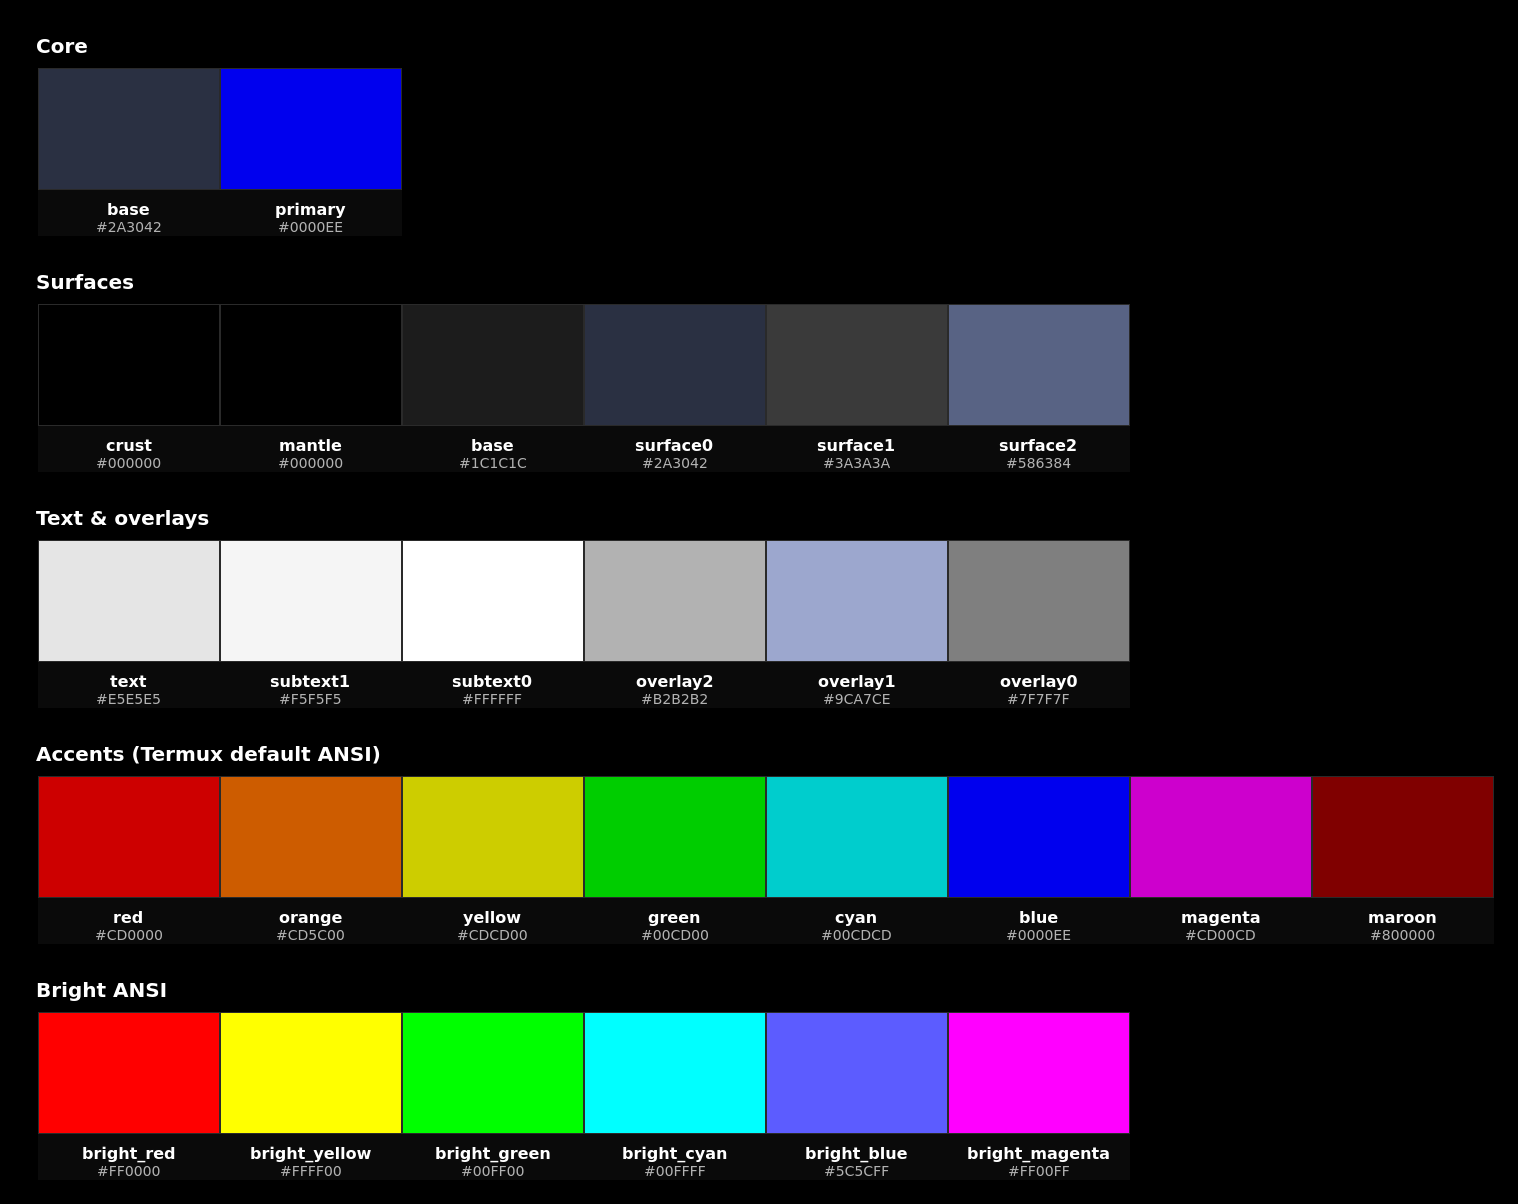
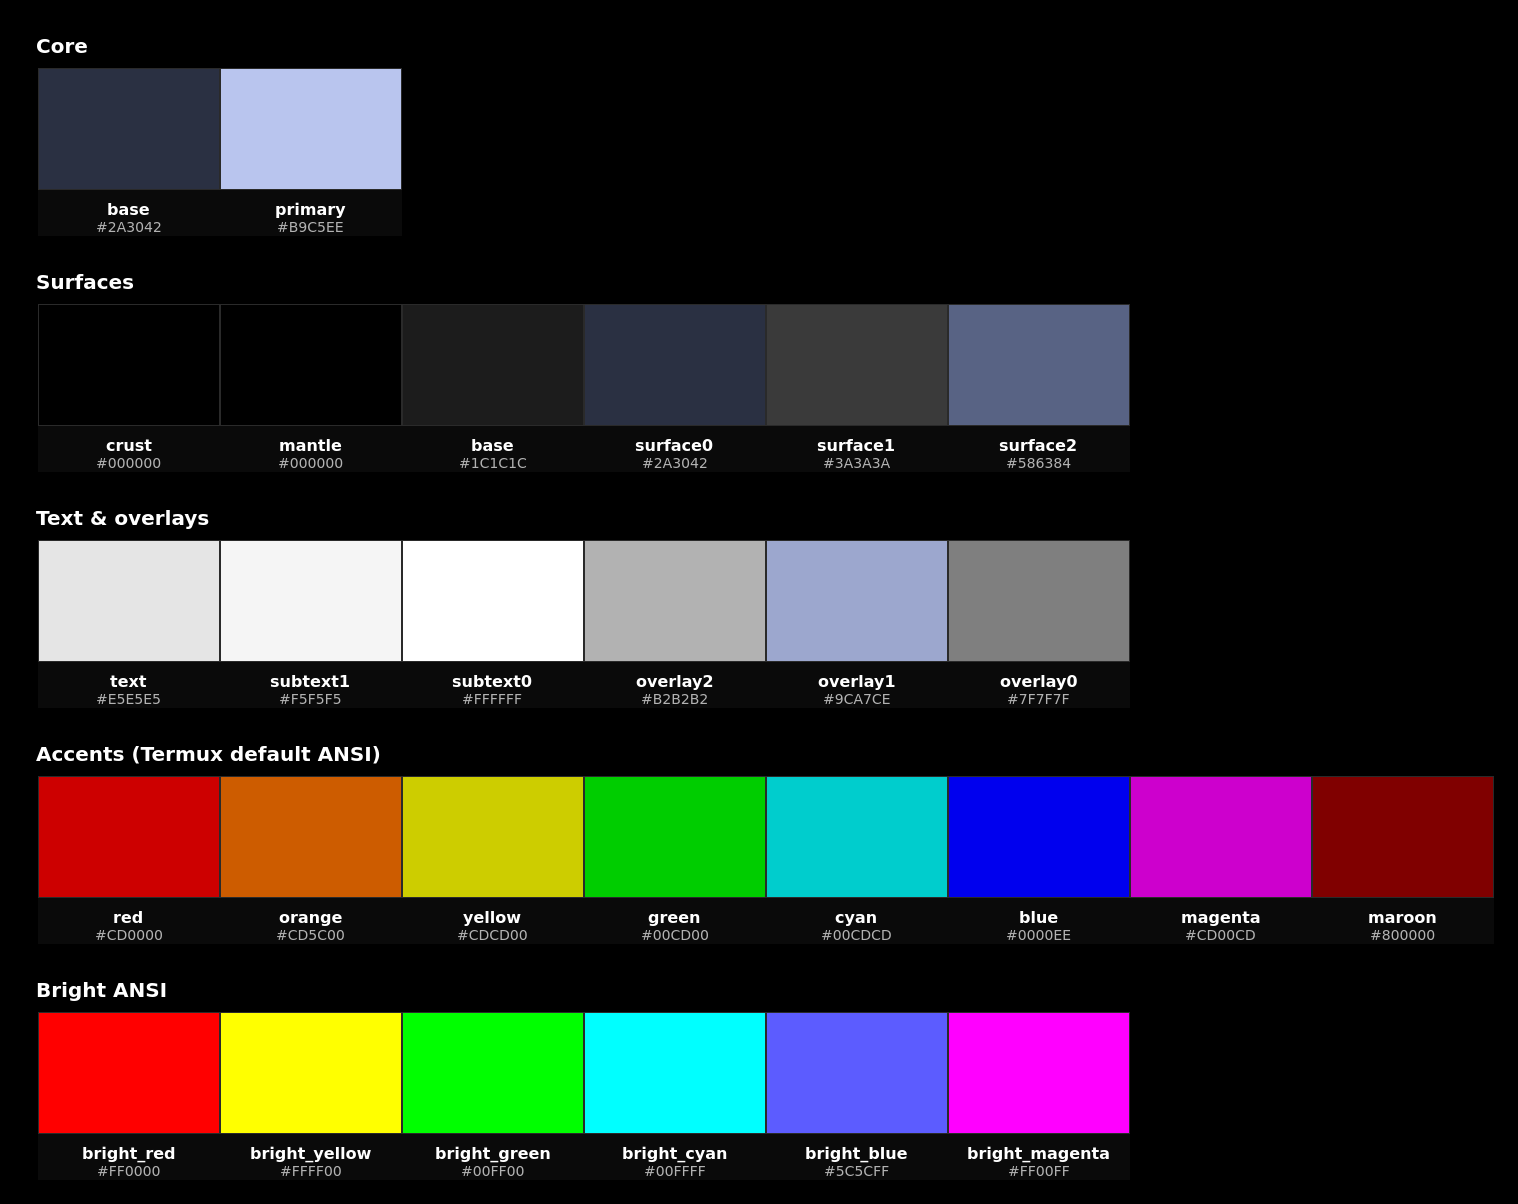
palette: lavender primary back; add flake.nix exposing palette + base16Scheme
primary returns to #B9C5EE — the Termux remap only applies to accents.
flake.nix reads formats/palette.json and exposes \`palette\` and a
ready-to-use \`base16Scheme\` attr so downstream Nix configs can
depend on the palette repo as the single source of truth.

Changed region(s): [[0.1238, 0.0307, 0.2787, 0.2151]]

diff --git a/formats/variables.css b/formats/variables.css
@@ -3,7 +3,7 @@
 :root {
   /* Core */
   --sturq-base:    #2A3042;
-  --sturq-primary: #0000EE;
+  --sturq-primary: #B9C5EE;
 
   /* Surfaces */
   --sturq-crust:    #000000;

diff --git a/README.md b/README.md
@@ -39,7 +39,7 @@ curl -O https://raw.githubusercontent.com/sturq/sturq-palette/main/formats/base1
 | Token | Hex |
 |---|---|
 | base | `#2A3042` |
-| primary | `#0000EE` |
+| primary | `#B9C5EE` |
 
 ### Surfaces
 